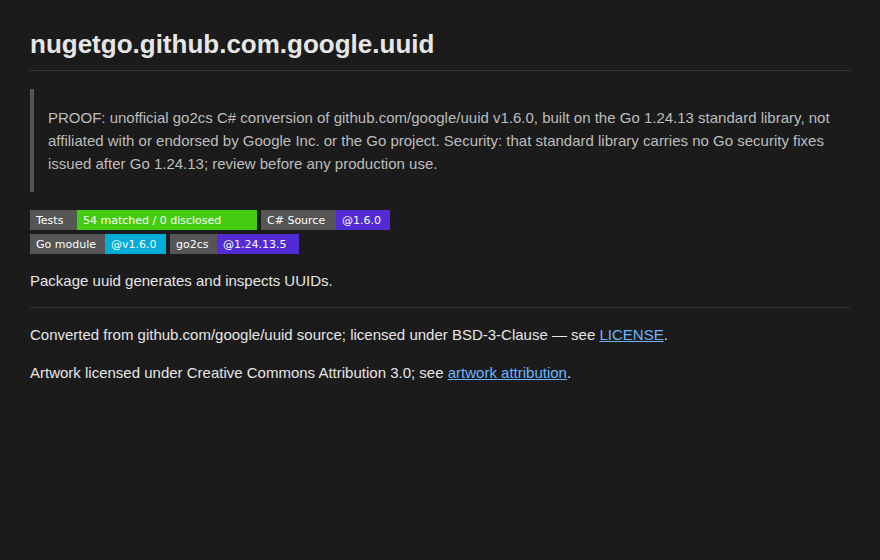
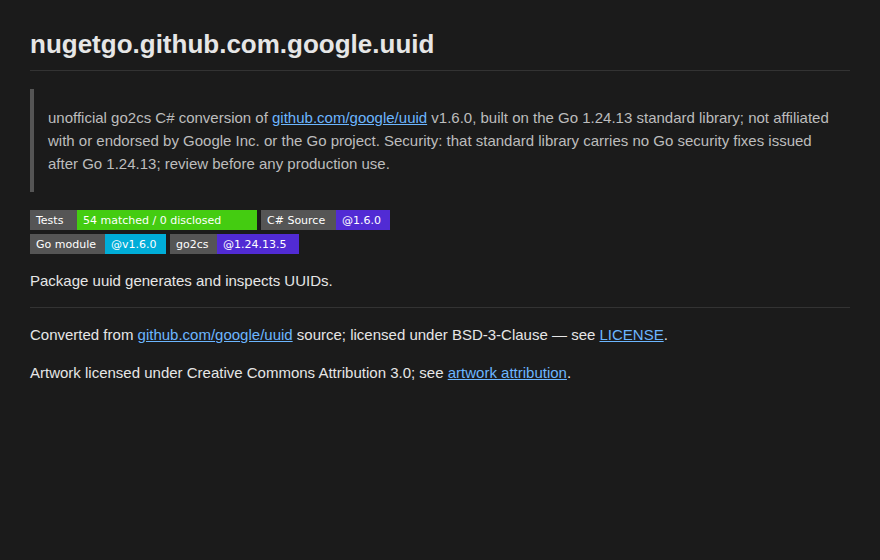
nugetgo uuid kit: the owner's README review and COORD ruling C -- no PROOF, the Go source linked, tags go2cs golang go
Both packages (the int.1 rehearsal and the release candidate) are re-packed at the tools tree 3d0d70ba53, from the
same roots and with the same proof.
- The description, the release notes and the README callout drop "PROOF:". The callout and the license line link the
  module at its GitHub version tag, which was checked anonymously. The package tags are go2cs golang go.
- Against the previous kit packages, only README.md, VALIDATION.md (its first line) and the nuspec's description,
  release notes and tags differ. Every assembly, pdb, the icon, LICENSE, index.md and the self-description are
  byte-identical.
- Refreshed: both nupkgs, SHA256SUMS, preview/README.md and README.png, conversion/VALIDATION.md (byte for byte as
  packed) and conversion/README.md (it quotes the description).
- OWNER-SHEET.md: $T and the packing notes name 3d0d70ba53. All PowerShell blocks parse.

Claude-Session: https://claude.ai/code/session_01DNESknHoGGXyZQ1oGc1eJC

diff --git a/OWNER-SHEET.md b/OWNER-SHEET.md
@@ -40,7 +40,7 @@ after COORD has ruled sections 1-3 green, by either path.
 | `evidence/v6probe/` | the Go probe that shows the upstream `TestVersion6` race deterministically |
 | `ROW-PR.md` | draft text for the registry row's pull request |
 
-Both packages were packed at `T` = `claude/c2-nugetgo-tools` @ `ac8775c806`, against the published go.* 1.24.13.5,
+Both packages were packed at `T` = `claude/c2-nugetgo-tools` @ `3d0d70ba53`, against the published go.* 1.24.13.5,
 with `-platforms linux/amd64`. Section 1: 54 matched, 0 disclosed, 18 Benchmark and Fuzz declarations excluded; input
 digest `sha256-1d40aaa871f4e430ac651e70e05593f11e9ed13539146378156e81f13af51b28`, the same in the proof and the packed
 project. The first `-tests` run read one red, `TestVersion6`, an upstream test race that native Go reproduces; COORD
@@ -49,8 +49,17 @@ ruled it cited, not disclosed (`ROW-PR.md` and the first-wave plan give the evid
 `T` is the tools that packed the first packages here plus the README and icon cut (owner, 2026-10-10), and the packs
 add `-LicenseSpdx BSD-3-Clause`. Each package now carries a generated README.md as its nuget.org README, the go2cs icon,
 and VALIDATION.md as a file the README links. The README links the conversion repository at the tag `nuget-<release
-version>`, never `HEAD` (COORD ruling 2026-10-10). Everything else is unchanged and was measured so: the packed assemblies
-are byte-identical to the ones packed at `7888e4e72f`, and so are the description and VALIDATION.md.
+version>`, never `HEAD` (COORD ruling 2026-10-10). The packed assemblies are byte-identical to the ones packed at
+`7888e4e72f`, measured.
+
+The owner's review of the hashset preview (2026-10-10) reaches these packages too, from `T` = `3d0d70ba53`. The
+description, the release notes and the README's top callout no longer start with "PROOF:", and read "...
+standard library; not affiliated ...". The callout's module path, and the "Converted from ..." line's, link the Go
+module's source at its version tag on GitHub. The package tags are `go2cs golang go`, with PROOF dropped (COORD ruling
+C). Against the previous kit's packages, only README.md, VALIDATION.md (its first line, which is the description) and
+the nuspec's description, release notes and tags differ; every assembly, the pdbs, the icon, LICENSE, `index.md` and the
+self-description are byte-identical. `conversion/VALIDATION.md` is the new file, byte for byte as packed, and
+`conversion/README.md` quotes the new description.
 
 ## PATH A: run the rehearsal
 
@@ -74,7 +83,7 @@ if ((go version) -notmatch 'go1\.24\.13 ') { throw 'go is not go1.24.13: check t
 
 $Repo = (git rev-parse --show-toplevel)
 $Work = Join-Path ([IO.Path]::GetTempPath()) 'nugetgo-uuid-int1'
-$T    = 'ac8775c806'
+$T    = '3d0d70ba53'
 $Kit  = 'claude/c2-nugetgo-uuid-1.6.0'
 $Id   = 'nugetgo.github.com.google.uuid'
 $PV   = '1.6.0-int.1'

diff --git a/preview/README.md b/preview/README.md
@@ -1,6 +1,6 @@
 # nugetgo.github.com.google.uuid
 
-> PROOF: unofficial go2cs C# conversion of github.com/google/uuid v1.6.0, built on the Go 1.24.13 standard library, not affiliated with or endorsed by Google Inc. or the Go project. Security: that standard library carries no Go security fixes issued after Go 1.24.13; review before any production use.
+> unofficial go2cs C# conversion of [github.com/google/uuid](https://github.com/google/uuid/tree/v1.6.0) v1.6.0, built on the Go 1.24.13 standard library; not affiliated with or endorsed by Google Inc. or the Go project. Security: that standard library carries no Go security fixes issued after Go 1.24.13; review before any production use.
 
 [![Tests](https://img.shields.io/badge/Tests-54_matched_%2F_0_disclosed-brightgreen?logo=go)](https://github.com/ritchiecarroll/uuid-cs/blob/nuget-1.6.0/VALIDATION.md) [![C# Source](https://img.shields.io/badge/C%23_Source-@1.6.0-512BD4?logo=dotnet)](https://github.com/ritchiecarroll/uuid-cs/tree/nuget-1.6.0)\
 [![Go module](https://img.shields.io/badge/Go_module-@v1.6.0-00ADD8?logo=go)](https://pkg.go.dev/github.com/google/uuid@v1.6.0) [![go2cs](https://img.shields.io/badge/go2cs-@1.24.13.5-512BD4?logo=dotnet)](https://github.com/ritchiecarroll/go2cs/tree/nuget-1.24.13.5)
@@ -9,6 +9,6 @@ Package uuid generates and inspects UUIDs.
 
 ---
 
-Converted from github.com/google/uuid source; licensed under BSD-3-Clause — see [LICENSE](https://github.com/ritchiecarroll/uuid-cs/blob/nuget-1.6.0/LICENSE).
+Converted from [github.com/google/uuid](https://github.com/google/uuid/tree/v1.6.0) source; licensed under BSD-3-Clause — see [LICENSE](https://github.com/ritchiecarroll/uuid-cs/blob/nuget-1.6.0/LICENSE).
 
 Artwork licensed under Creative Commons Attribution 3.0; see [artwork attribution](https://github.com/ritchiecarroll/go2cs/blob/master/docs/images/README).

diff --git a/conversion/README.md b/conversion/README.md
@@ -17,7 +17,7 @@ This repository is not affiliated with or endorsed by Google, the authors of `gi
 Published as [`nugetgo.github.com.google.uuid`](https://www.nuget.org/packages/nugetgo.github.com.google.uuid) 1.6.0.
 A rebuild of the same Go version adds a fourth, revision part: `1.6.0.N`, where N counts up from 1.
 
-PROOF: unofficial go2cs C# conversion of github.com/google/uuid v1.6.0, built on the Go 1.24.13 standard library, not
+unofficial go2cs C# conversion of github.com/google/uuid v1.6.0, built on the Go 1.24.13 standard library; not
 affiliated with or endorsed by Google Inc. or the Go project. Security: that standard library carries no Go security
 fixes issued after Go 1.24.13; review before any production use.
 

diff --git a/conversion/VALIDATION.md b/conversion/VALIDATION.md
@@ -1,4 +1,4 @@
-> PROOF: unofficial go2cs C# conversion of github.com/google/uuid v1.6.0, built on the Go 1.24.13 standard library, not affiliated with or endorsed by Google Inc. or the Go project. Security: that standard library carries no Go security fixes issued after Go 1.24.13; review before any production use.
+> unofficial go2cs C# conversion of github.com/google/uuid v1.6.0, built on the Go 1.24.13 standard library; not affiliated with or endorsed by Google Inc. or the Go project. Security: that standard library carries no Go security fixes issued after Go 1.24.13; review before any production use.
 
 # `github.com/google/uuid` — module validation summary
 
